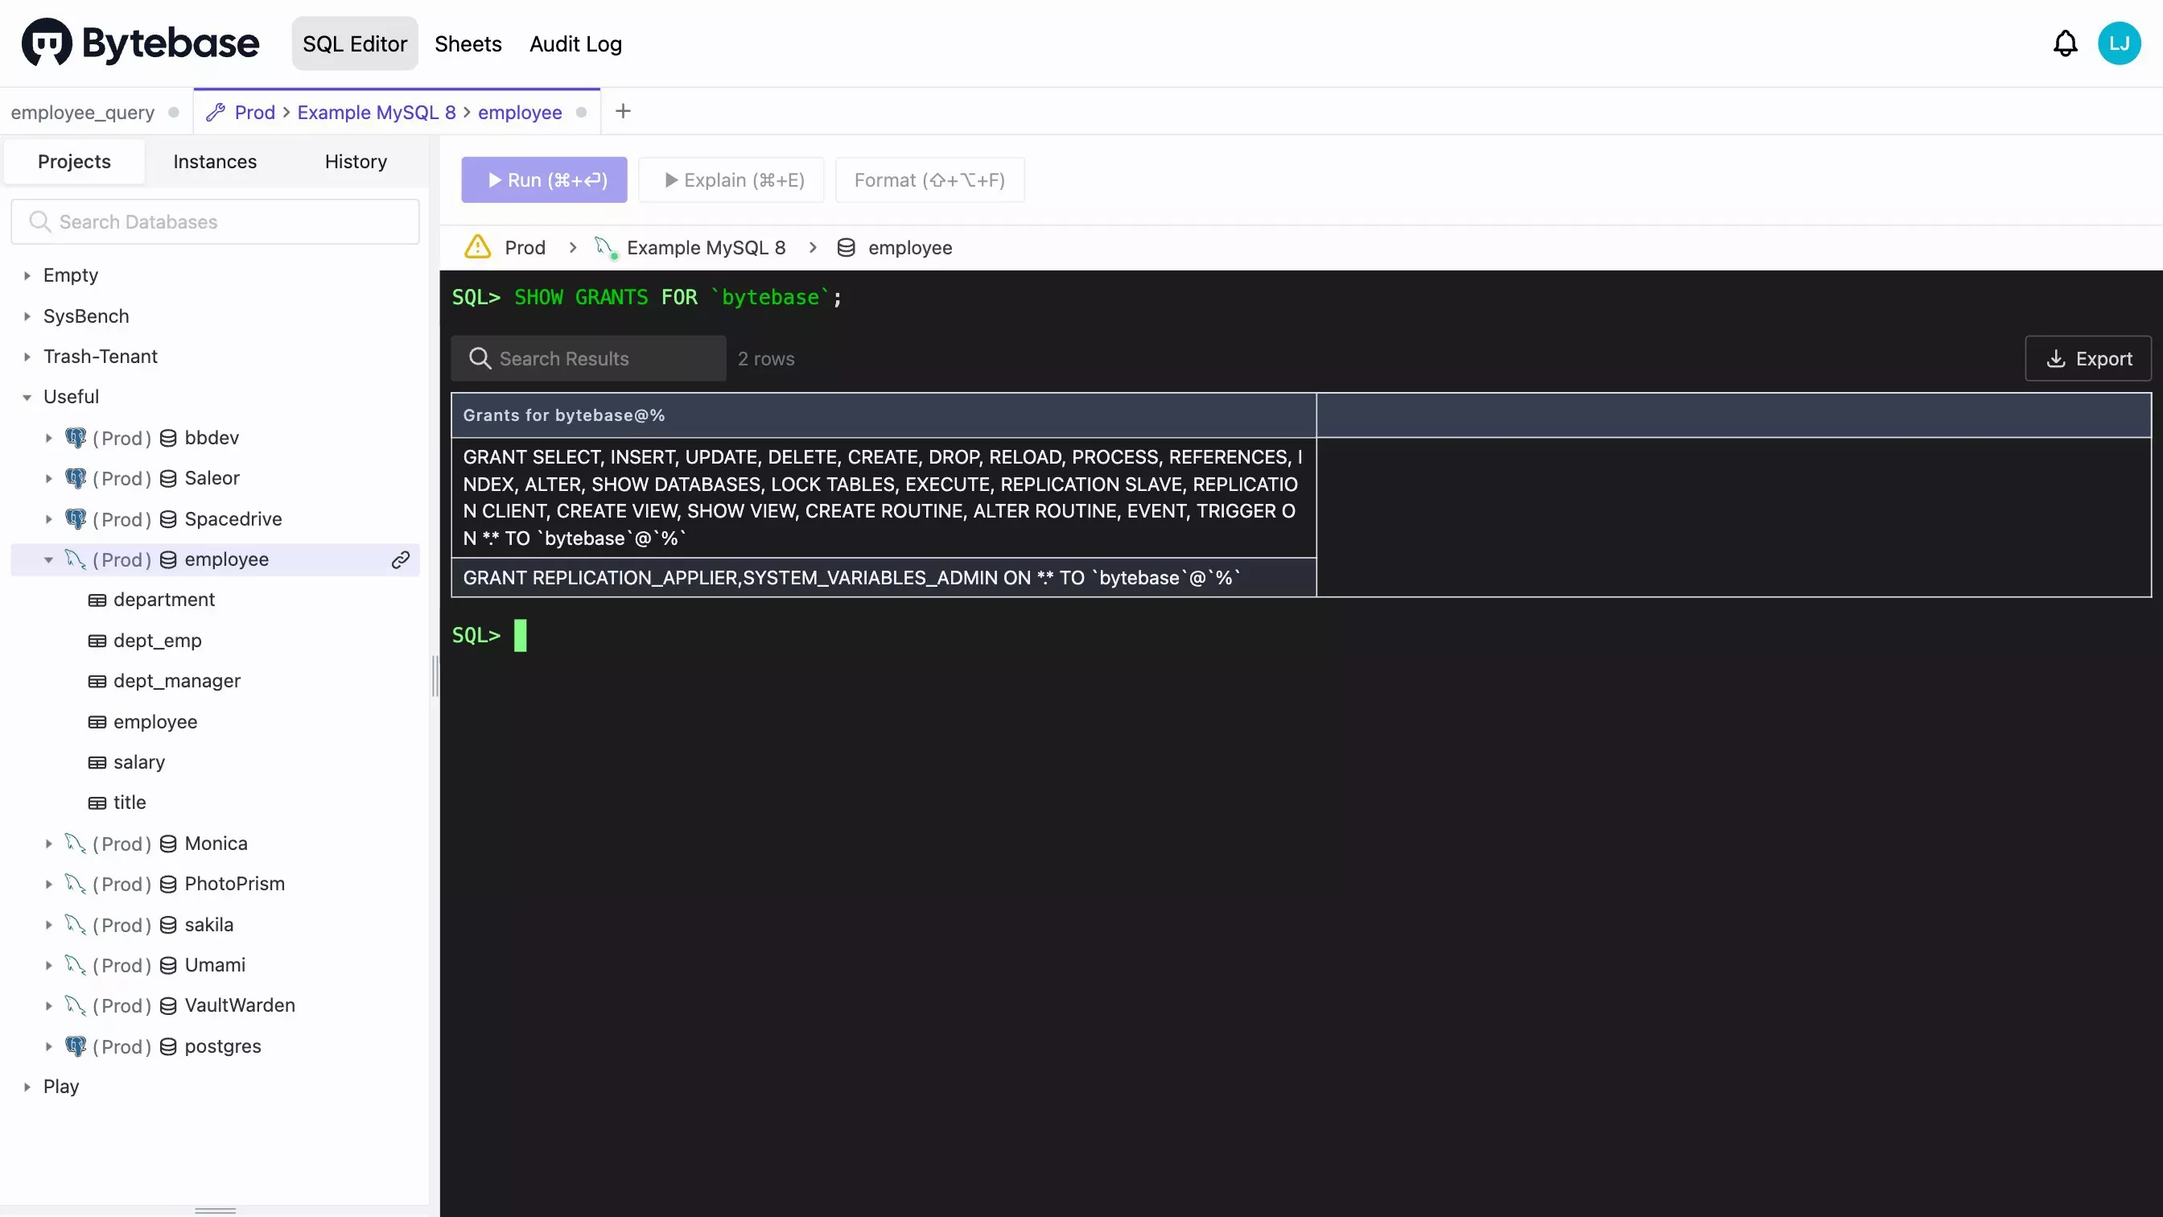
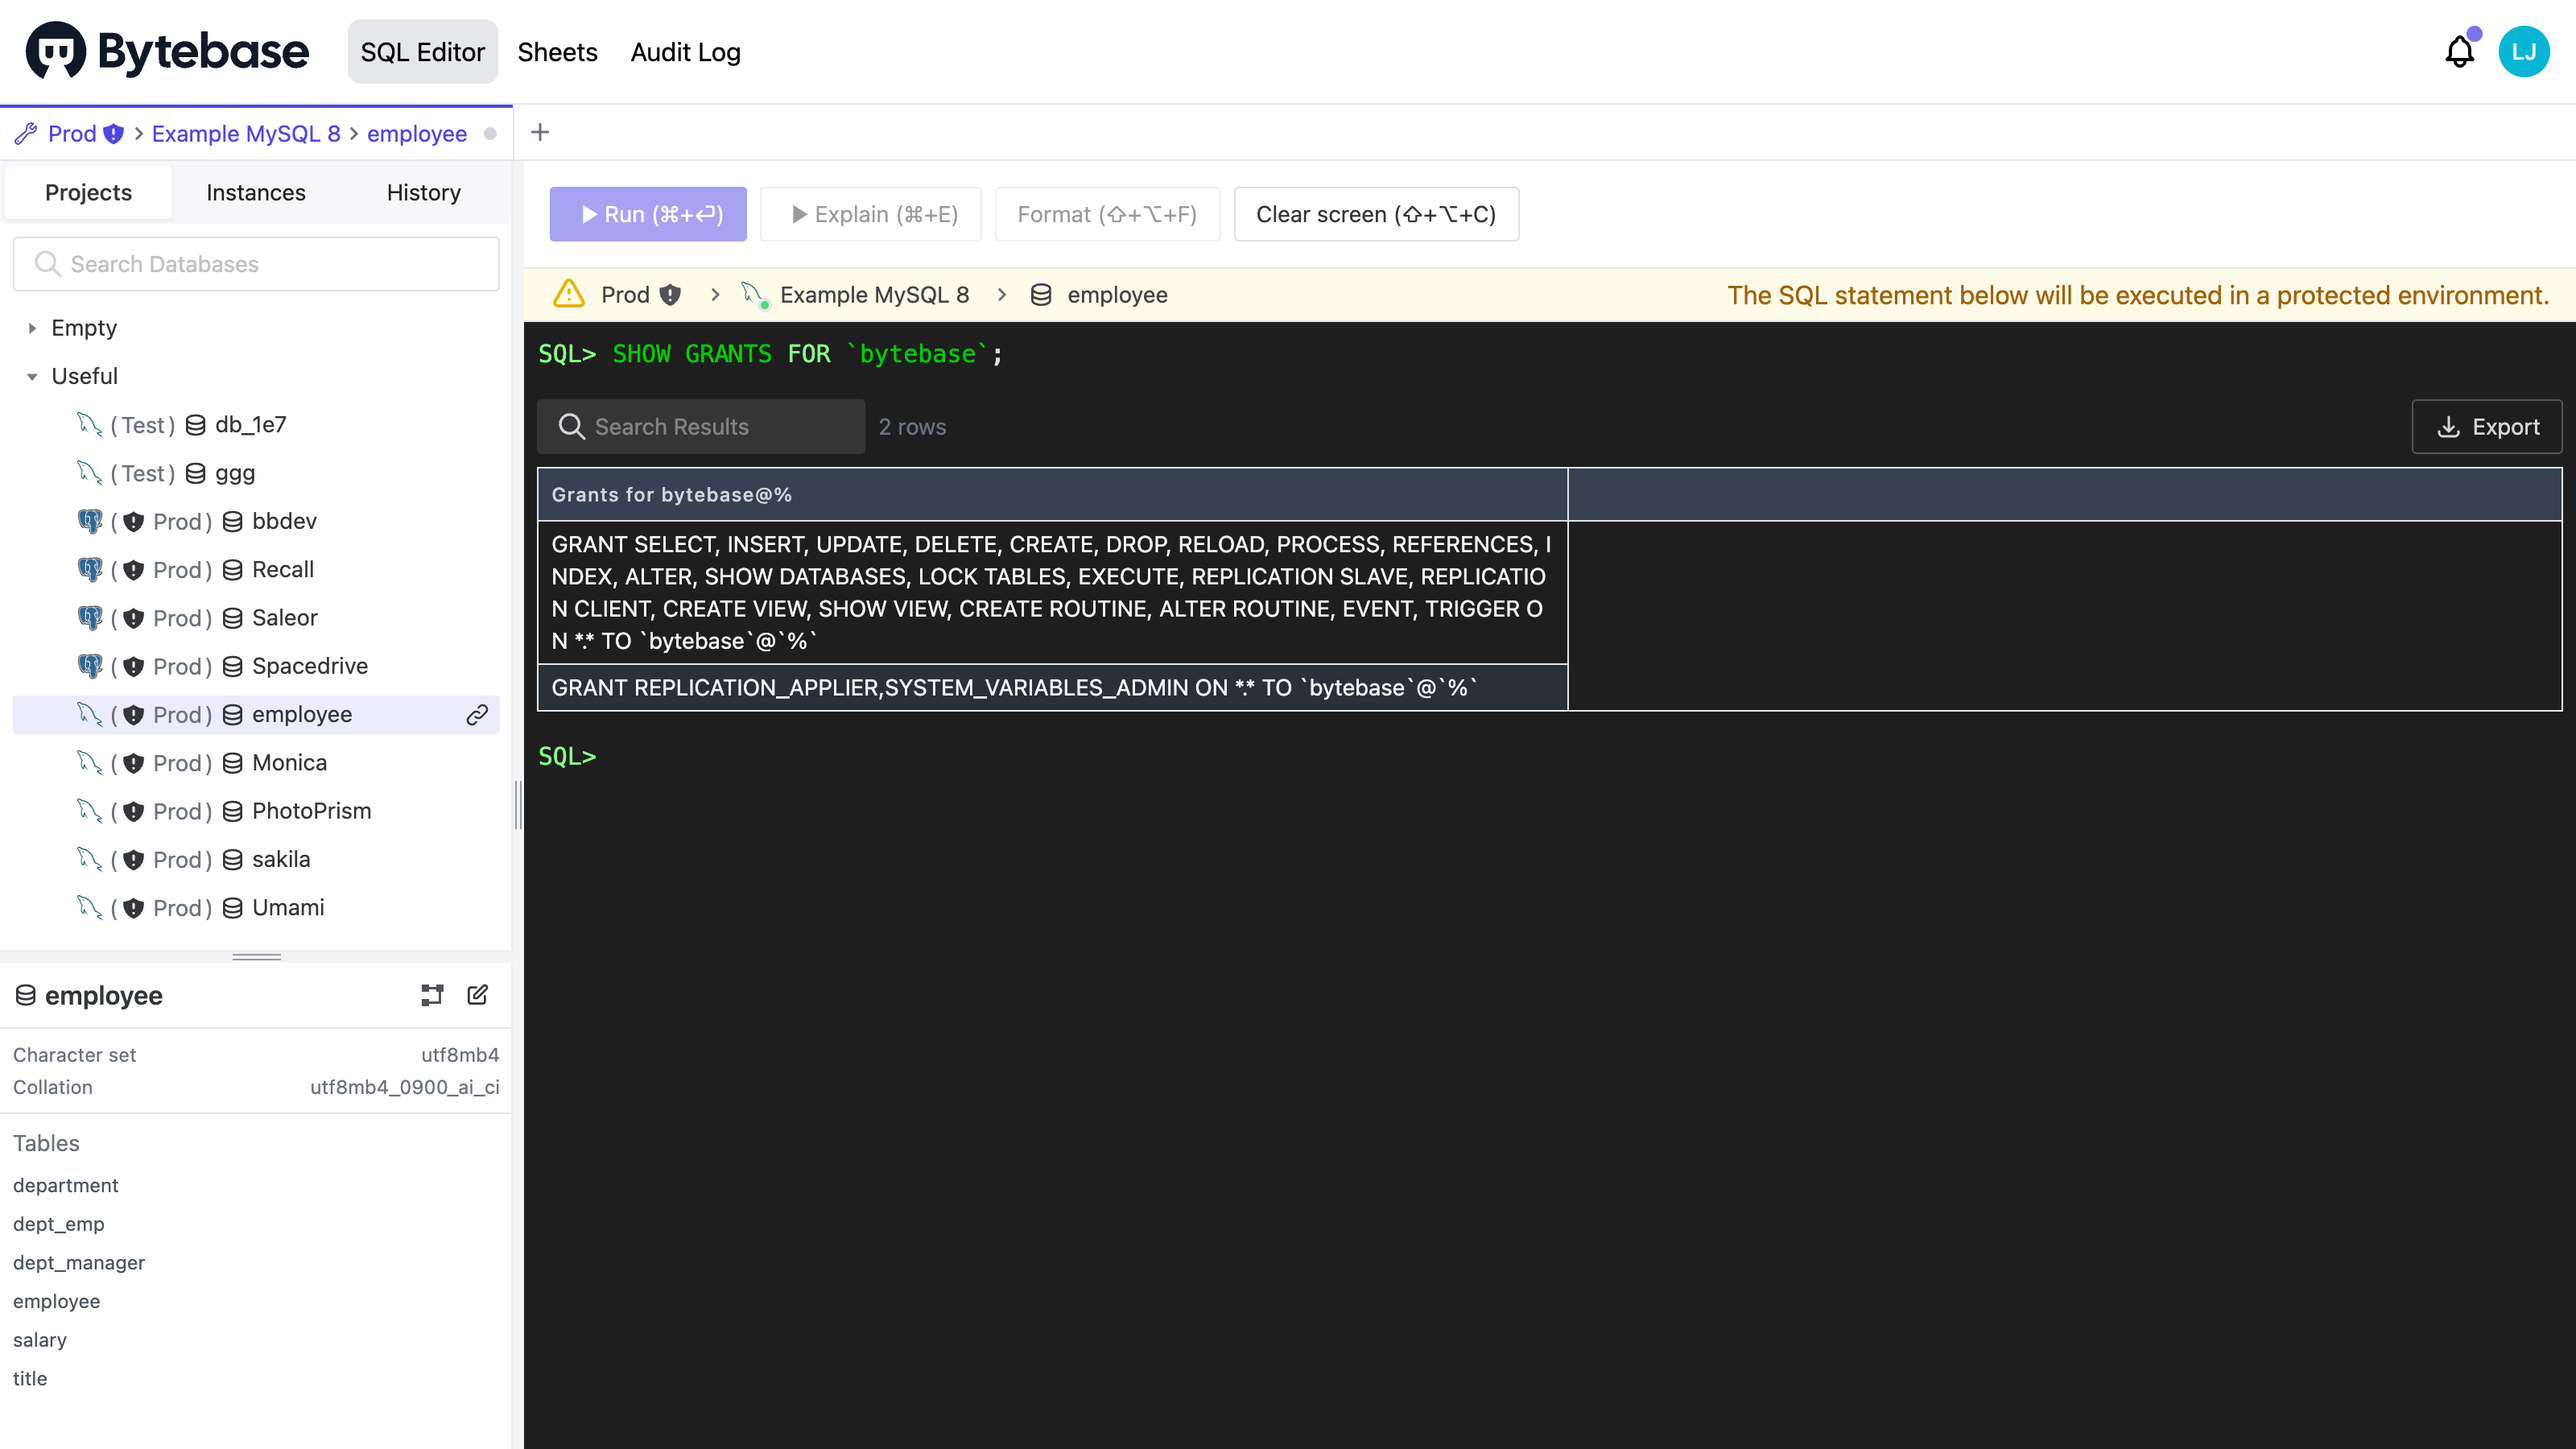
docs: update SQL Editor docs and screenshots (#763)
* docs: update sql-editor docs for shortcuts

* docs: update sql-editor screenshots

* chore: wording

* Optimised images with calibre/image-actions

* chore: rename "Clear history" to "Clear screen"

* Optimised images with calibre/image-actions

* Update content/docs/sql-editor/admin-mode.md

---------

diff --git a/assets/css/github-markdown-style.css b/assets/css/github-markdown-style.css
@@ -235,9 +235,9 @@
 .markdown-body kbd {
   display: inline-block;
   padding: 3px 5px;
-  font: 11px ui-monospace, SFMono-Regular, SF Mono, Menlo, Consolas,
-    Liberation Mono, monospace;
-  line-height: 10px;
+  font-size: 13px;
+  font-family: SF Pro Text,SF Pro Icons,Helvetica Neue,Helvetica,Arial,sans-serif;
+  line-height: 1em;
   color: #24292f;
   vertical-align: middle;
   background-color: #f6f8fa;

diff --git a/content/docs/sql-editor/admin-mode.md b/content/docs/sql-editor/admin-mode.md
@@ -17,3 +17,5 @@ Click **Admin Mode** button to open a separate Admin Mode tab. Note that this is
 In Admin Mode, you are not limited to run SELECT, DDL and DML change queries, but also allowed to run database administration SQL statements such as SHOW, SET, GRANT, etc.
 
 ![Admin Mode](/static/docs/sql-editor/admin-mode.webp)
+
+In Admin Mode, click the **Clear screen** button or use its keyboard shortcut <kbd>⇧ + ⌥ + C</kbd> to clear the screen. You can also press <kbd>⌘ + Up / Down</kbd> or <kbd>Ctrl + Up / Down</kbd> to explore history statements backward or forward. 
